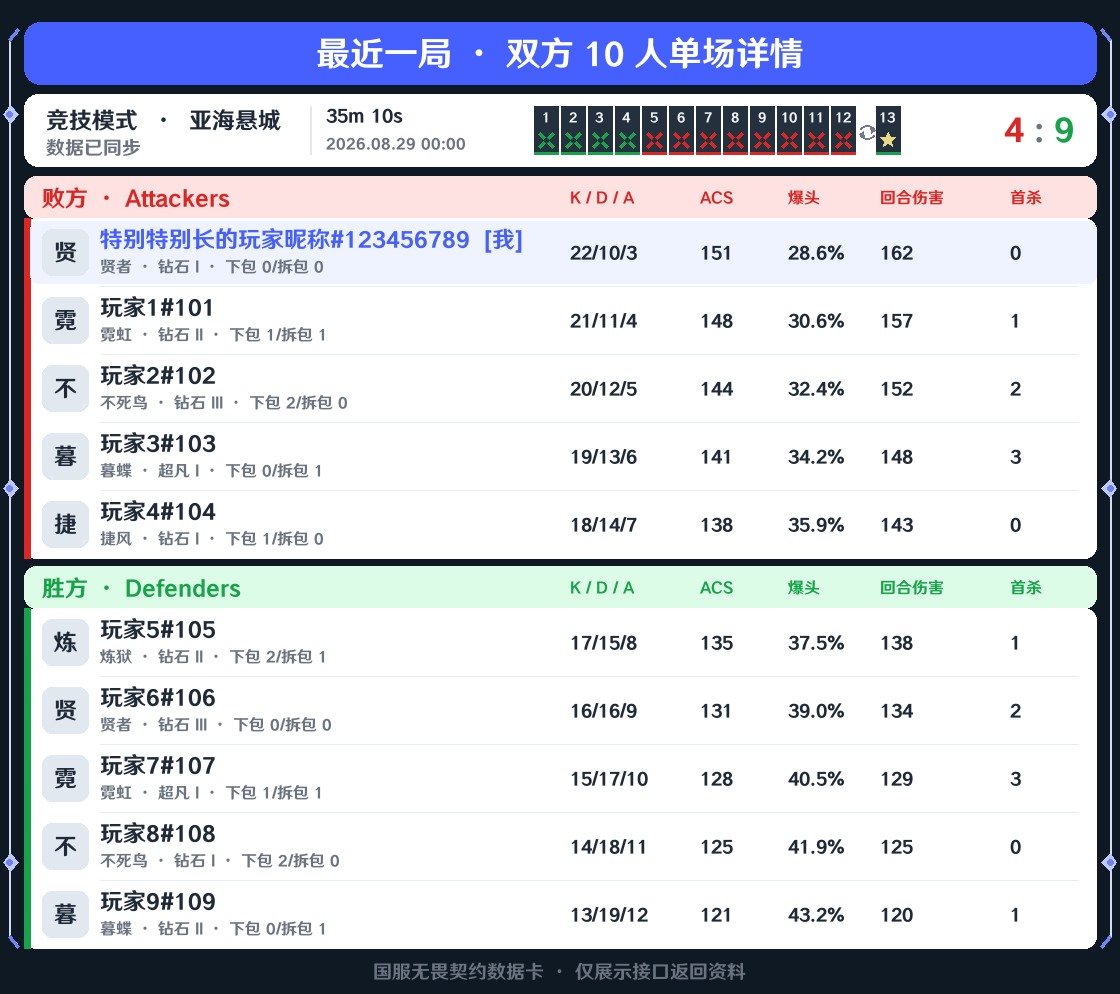
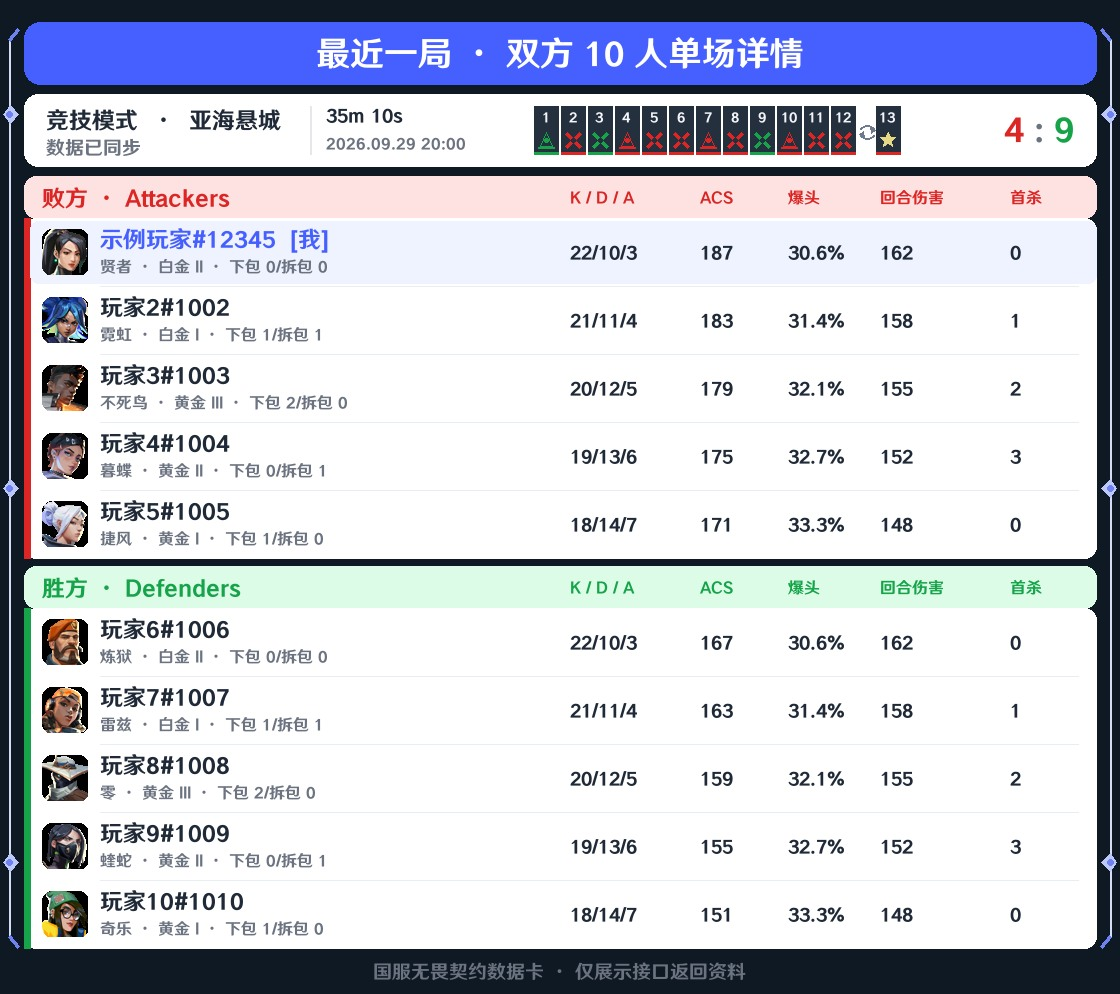
fix: recognize new weapons and refresh README previews

diff --git a/nonebot_plugin_varolant/core/gameinfo.py b/nonebot_plugin_varolant/core/gameinfo.py
@@ -20,7 +20,8 @@ _WEAPON_CN = {
     "sheriff": "正义", "stinger": "蜂刺", "spectre": "骇灵", "bucky": "雄鹿",
     "judge": "判官", "bulldog": "獠犬", "guardian": "戍卫", "phantom": "幻影",
     "vandal": "狂徒", "marshal": "飞将", "operator": "冥驹", "ares": "战神",
-    "odin": "奥丁", "outlaw": "追猎", "tacticalknife": "近战武器",
+    "odin": "奥丁", "outlaw": "莽侠", "bandit": "追猎",
+    "warden": "悍狼", "tacticalknife": "近战武器",
 }
 
 # CDN 失效时的兜底赛季（抓包日期 2026-08，2026赛季 第四幕）
@@ -139,7 +140,7 @@ def map_meta(data: Dict[str, Any]) -> Dict[str, Dict[str, str]]:
 
 
 def weapon_meta(data: Dict[str, Any]) -> Dict[str, Dict[str, str]]:
-    """武器 GUID/英文名(小写) → {name, type, picture_url}。"""
+    """武器 ID/GUID/中英文名(小写) → {name, type, picture_url}。"""
     out: Dict[str, Dict[str, str]] = {}
     for weapon in data.get("weapons") or []:
         guid = str(weapon.get("guid") or "").lower()
@@ -157,6 +158,9 @@ def weapon_meta(data: Dict[str, Any]) -> Dict[str, Dict[str, str]]:
             "picture_url": str(weapon.get("picture_url") or ""),
         }
         out[guid] = info
+        weapon_id = str(weapon.get("id") or "").strip()
+        if weapon_id:
+            out[weapon_id] = info
         english_key = english.lower()
         if english_key:
             out[english_key] = info

diff --git a/tests/test_battle_state.py b/tests/test_battle_state.py
@@ -171,6 +171,27 @@ class BattleTeamStateTest(unittest.TestCase):
             "https://example.invalid/vandal.png",
         )
 
+    def test_new_weapons_resolve_by_id_guid_and_localized_name(self):
+        weapons = [
+            (19, "outlaw-guid", "Outlaw", "莽侠"),
+            (20, "bandit-guid", "Bandit", "追猎"),
+            (21, "warden-guid", "warden", "悍狼"),
+        ]
+        meta = gameinfo.weapon_meta({"weapons": [
+            {
+                "id": weapon_id,
+                "guid": guid,
+                "name": {"cn": "�", "en": english},
+                "type": {"cn": "步枪"},
+                "picture_url": f"https://example.invalid/{english}.png",
+            }
+            for weapon_id, guid, english, _ in weapons
+        ]})
+        for weapon_id, guid, english, chinese in weapons:
+            for key in (str(weapon_id), guid, english.lower(), chinese):
+                self.assertEqual(meta[key]["name"], chinese)
+                self.assertTrue(meta[key]["picture_url"].endswith(f"/{english}.png"))
+
     def test_all_matcher_messages_quote_the_trigger(self):
         matcher_dir = Path(__file__).parents[1] / "nonebot_plugin_varolant" / "matchers"
         missing = []

diff --git a/README.md b/README.md
@@ -33,6 +33,8 @@ _面向 QQ 群的 NoneBot2 无畏契约助手_
 
 ## 效果图
 
+以下卡片使用演示数据生成，特工与武器图片来自游戏资源接口。
+
 <details>
 <summary>查看帮助图</summary>
 
@@ -43,21 +45,21 @@ _面向 QQ 群的 NoneBot2 无畏契约助手_
 <details>
 <summary>查看双方 10 人单场详情</summary>
 
-![双方 10 人详情](https://raw.githubusercontent.com/luoye520ww/nonebot-plugin-varolant/main/docs/images/battle-detail.jpg)
+![双方 10 人详情](https://raw.githubusercontent.com/luoye520ww/nonebot-plugin-varolant/main/docs/images/battle-detail.jpg?v=20260929)
 
 </details>
 
 <details>
 <summary>查看武器击杀卡片</summary>
 
-![武器击杀](https://raw.githubusercontent.com/luoye520ww/nonebot-plugin-varolant/main/docs/images/weapons.jpg)
+![武器击杀](https://raw.githubusercontent.com/luoye520ww/nonebot-plugin-varolant/main/docs/images/weapons.jpg?v=20260929)
 
 </details>
 
 <details>
 <summary>查看近期战绩卡片</summary>
 
-![近期战绩](https://raw.githubusercontent.com/luoye520ww/nonebot-plugin-varolant/main/docs/images/stats.jpg)
+![近期战绩](https://raw.githubusercontent.com/luoye520ww/nonebot-plugin-varolant/main/docs/images/stats.jpg?v=20260929)
 
 </details>
 
